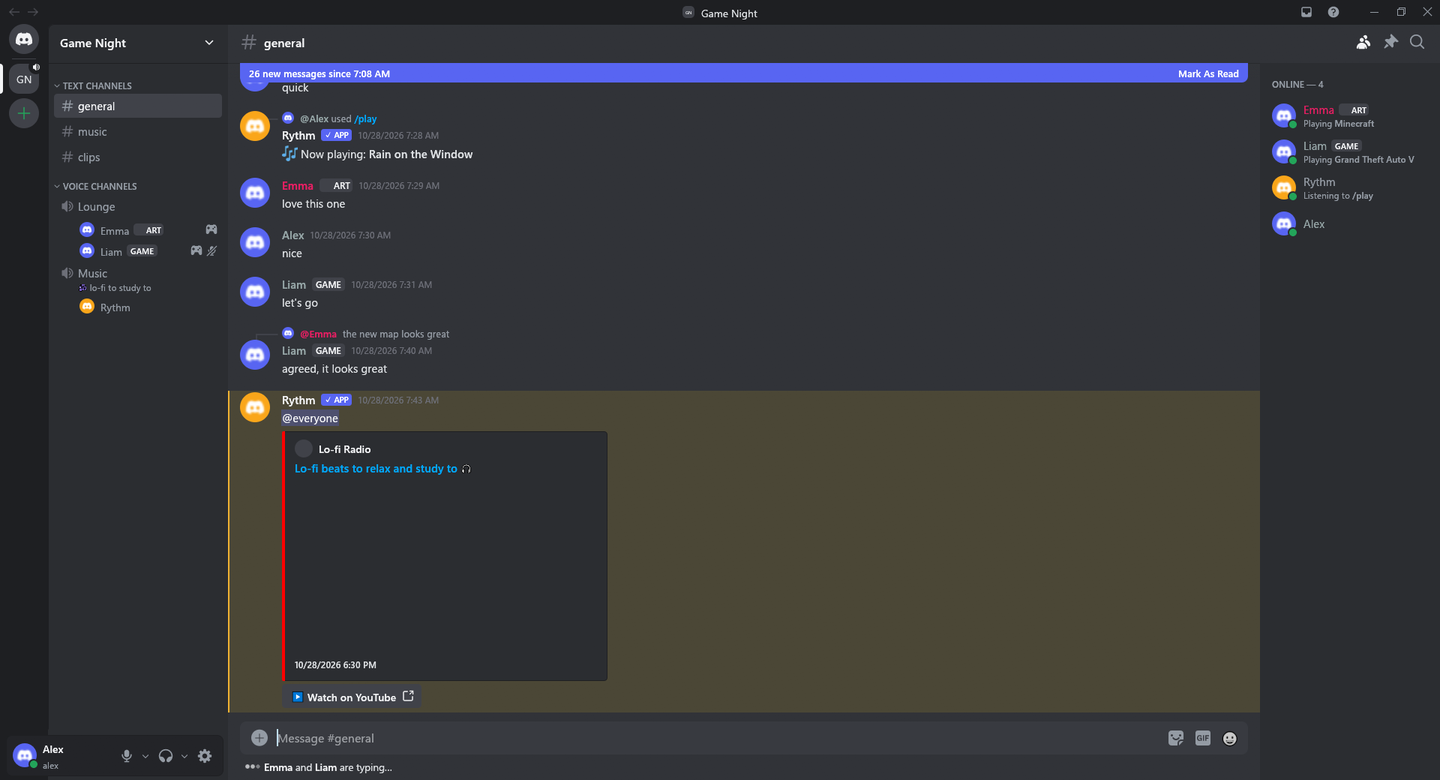
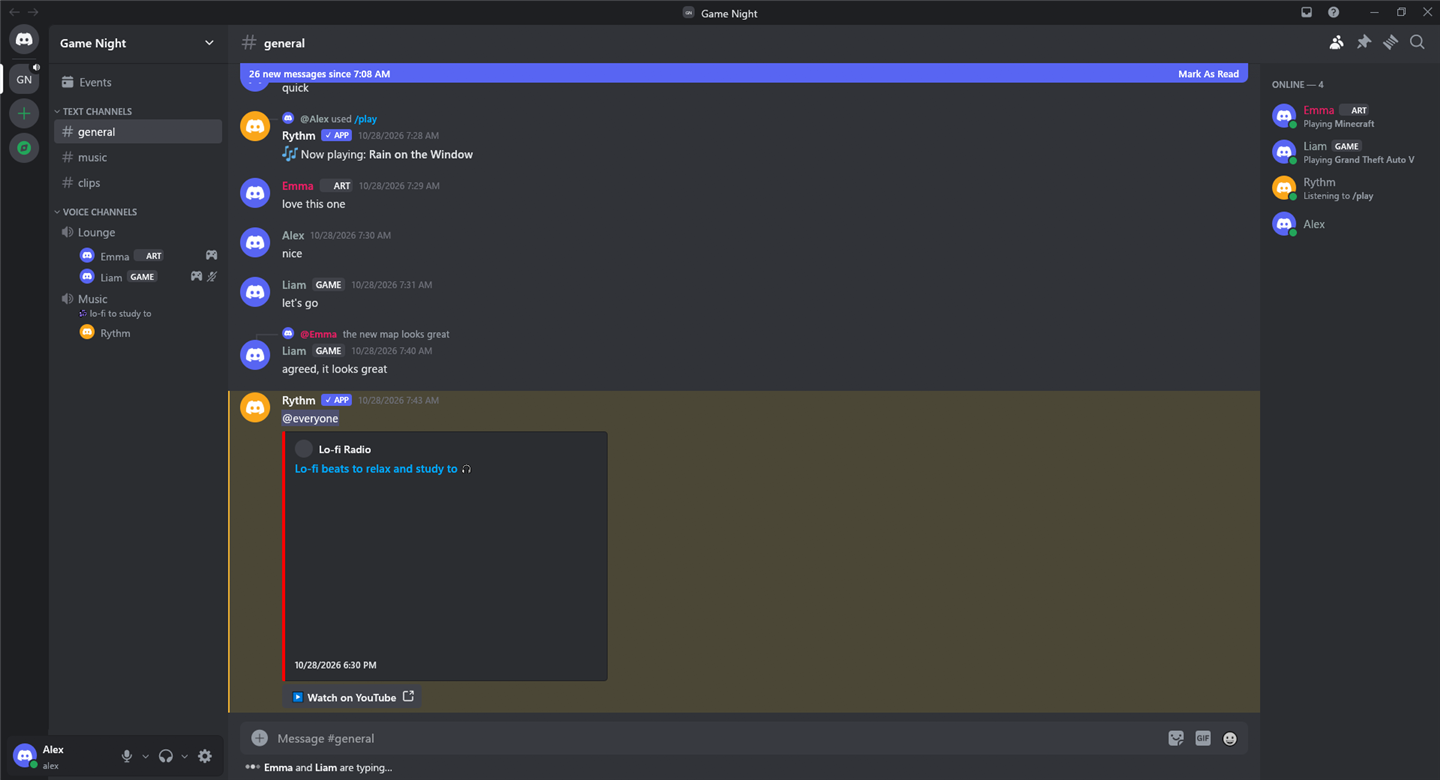
README: new screenshots from the demo session
A server with its chat and member list, and the settings window on Voice
and Video, both from tests/fixtures/demo.json.

diff --git a/README.md b/README.md
@@ -35,6 +35,10 @@ colours and sounds, in about 100 MB of RAM and next to no CPU while idle.
   <img src="docs/images/screenshot.png" alt="CordFast showing a server with its channels, a conversation, an embed and the member list">
 </p>
 
+<p align="center">
+  <img src="docs/images/settings.png" alt="CordFast's settings window on the Voice and Video page, with the microphone, speaker and input profile">
+</p>
+
 [Features](#features) · [Install](#install) · [Build](#build) · [Languages](#languages)
 
 ## Features

diff --git a/docs/README.pt-BR.md b/docs/README.pt-BR.md
@@ -36,6 +36,10 @@ repouso.
   <img src="images/screenshot.png" alt="O CordFast mostrando um servidor com seus canais, uma conversa, um embed e a lista de membros">
 </p>
 
+<p align="center">
+  <img src="images/settings.png" alt="A janela de configurações do CordFast na página Voz e vídeo, com microfone, alto-falante e perfil de entrada">
+</p>
+
 [O que tem](#o-que-tem) · [Instalar](#instalar) · [Compilar](#compilar) · [Idiomas](#idiomas)
 
 ## O que tem
